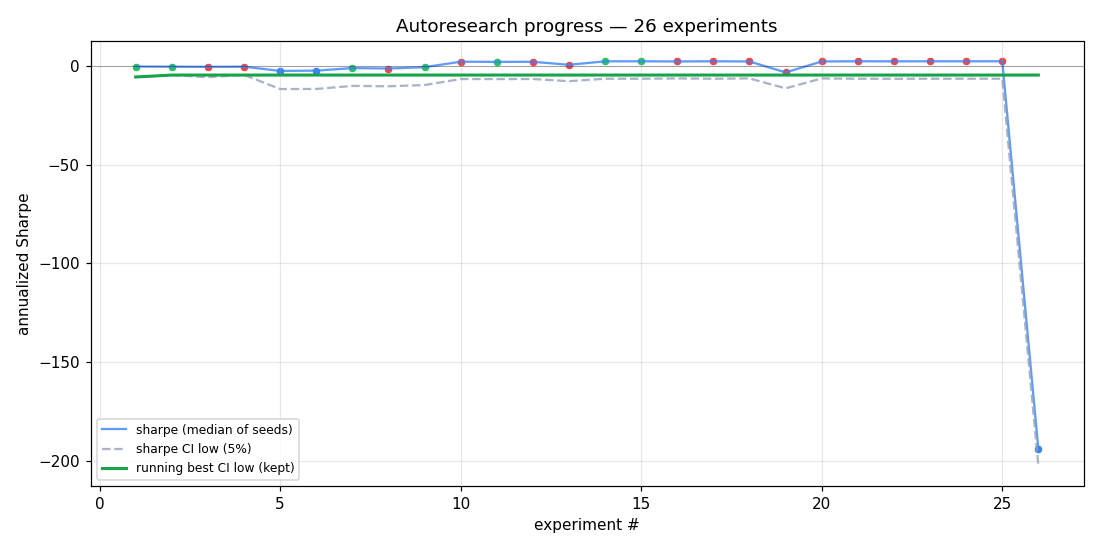
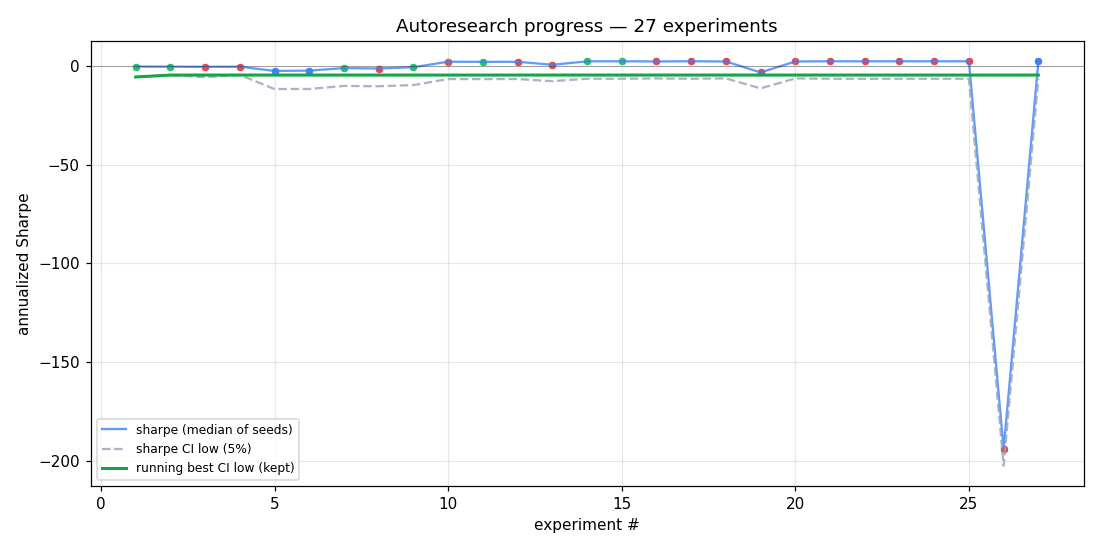
exp24: redesign picker (rank-based + fixed-hold sell) + stickiness param
- exp23 had picker take 0 trades because BUY-HOLD logit threshold (0.5)
  was unreachable with HOLD bias 1.5. Picker logic now:
  * BUY: top-1 by softmax P(BUY) at each cooldown, NO threshold (rank-only)
  * SELL: deterministic — auto-exit after PICKER_HOLD_BARS (60 = 1 hour)
  * Cap: max PICKER_MAX_CONCURRENT (5) simultaneous positions
- This makes picker behavior independent of HOLD-bias calibration.

- Adds PRIMARY_MIN_HOLD_BARS knob (default 1, no change from current).
  When >1, primary policy must hold position for ≥N bars before changing.
  Forces commitment, reduces churn. Per-strategy stickiness pattern.

- README updated with new picker description + Per-strategy stickiness section.

diff --git a/experiment.py b/experiment.py
@@ -224,6 +224,14 @@ RL_LR = 2e-5     # exp7 KEPT setting (known stable, no rogue seeds)
 RL_COEF = 1.0
 ENTROPY_COEF = 0.01
 VOL_PENALTY = 0.0   # exp20/21 showed: small penalty=invisible, large penalty=destabilizing. Off.
+
+# ============================================================================
+# STRATEGY-LEVEL "STICKINESS" — minimum time between portfolio moves.
+# Each strategy defines its own. Higher = more committed positions, less churn.
+# 1 = current behavior (can change every bar).
+# ============================================================================
+PRIMARY_MIN_HOLD_BARS = 1     # primary strategy: how many bars to hold before allowing position change
+# (Picker already has PICKER_BUY_COOLDOWN_S = 5 min between BUYs.)
 SGD_BATCH = 64
 GRAD_CLIP = 1.0
 RL_STEP_EVERY_BARS = 5
@@ -396,7 +404,10 @@ def simulate(model: PatchTransformer, features: dict[str, pd.DataFrame], device:
     fixed_cost_frac = 2.0 * FEE_PER_TRADE_USD / NOTIONAL_PER_SYMBOL_USD
 
     broker = PaperBroker()
-    sym_state: dict[str, dict] = {s: {"i": -1, "pending": [], "last_pos": 0.0} for s in features}
+    # last_change_idx tracks the bar index when this symbol's position last changed,
+    # so we can enforce PRIMARY_MIN_HOLD_BARS between consecutive position changes.
+    sym_state: dict[str, dict] = {s: {"i": -1, "pending": [], "last_pos": 0.0,
+                                       "last_change_idx": -10**9} for s in features}
 
     cols = USE_FEATURES
     feat_arrays: dict[str, np.ndarray] = {s: f[cols].to_numpy(np.float32) for s, f in features.items()}
@@ -453,7 +464,13 @@ def simulate(model: PatchTransformer, features: dict[str, pd.DataFrame], device:
             for (sym, i_now), a_idx, X_arr in zip(batch_meta, a_idx_list, batch_X):
                 st = sym_state[sym]
                 target = float(ACTION_TO_POS[a_idx])
+                # STICKINESS: if not enough bars since last position change, force HOLD
+                if (i_now - st["last_change_idx"]) < PRIMARY_MIN_HOLD_BARS:
+                    target = st["last_pos"]
+                    a_idx = 1   # HOLD
                 pos_change = abs(target - st["last_pos"])
+                if pos_change > 1e-9:
+                    st["last_change_idx"] = i_now
                 broker.update(sym, float(close_arrays[sym][i_now]), ts, target)
                 st["pending"].append({
                     "X": X_arr.copy(),
@@ -519,8 +536,8 @@ def simulate(model: PatchTransformer, features: dict[str, pd.DataFrame], device:
 
 PICKER_POSITION_USD = 1_000.0
 PICKER_BUY_COOLDOWN_S = 5 * 60     # max 1 buy per 5 minutes
-PICKER_BUY_THRESHOLD = 0.5         # action_logits[BUY] - HOLD must exceed this
-PICKER_SELL_THRESHOLD = 0.5        # action_logits[SELL] - HOLD must exceed this
+PICKER_HOLD_BARS = 60              # auto-sell after N bars (1 hour at 1-min bars)
+PICKER_MAX_CONCURRENT = 5          # max number of distinct positions held at once
 
 
 class PickerBroker:
@@ -596,9 +613,19 @@ class PickerBroker:
 def simulate_best_picker(model: PatchTransformer,
                          features: dict[str, pd.DataFrame],
                          device: str) -> PickerBroker:
-    """At each timestamp, pick the SINGLE highest-conviction BUY and execute
-    one $1k buy if cooldown permits. Sell entire position when SELL conviction
-    exceeds threshold for any held symbol.
+    """At each timestamp, RANK all ready symbols by P(BUY) (softmax of action head).
+
+    Buy logic: every PICKER_BUY_COOLDOWN_S, buy the TOP-1 ranked symbol's $1k
+    position, regardless of absolute level. Pure rank-based — works even when
+    HOLD bias makes all P(BUY) values low in absolute terms, because we only
+    care which symbol the model likes MOST relative to the others.
+
+    Sell logic: each held position auto-exits after PICKER_HOLD_BARS bars
+    (deterministic timer — no model decision needed for exits). This makes
+    the picker's behavior independent of SELL-logit calibration.
+
+    Concurrency: max PICKER_MAX_CONCURRENT positions held at once. Beyond
+    that, new buys wait for the cooldown AND a freed slot.
     """
     broker = PickerBroker()
     cols = USE_FEATURES
@@ -613,38 +640,48 @@ def simulate_best_picker(model: PatchTransformer,
 
     C = model.context_len
     last_idx_by_sym: dict[str, int] = {s: -1 for s in features}
+    # Track when each held position was bought (bar count since start of replay)
+    bought_at_bar: dict[str, int] = {}   # sym -> bar count
+    bar_count = 0
 
     for ts in sorted_ts:
+        bar_count += 1
         events_here = events_by_ts[ts]
         for sym, i_now in events_here:
             last_idx_by_sym[sym] = i_now
 
-        # Score every ready symbol with the model's action head
+        # 1) Auto-sell positions held longer than PICKER_HOLD_BARS
+        to_close = []
+        for sym, bought_bar in bought_at_bar.items():
+            if (bar_count - bought_bar) >= PICKER_HOLD_BARS and broker.positions.get(sym, 0.0) > 0:
+                to_close.append(sym)
+        for sym in to_close:
+            price = float(close_arrays[sym][last_idx_by_sym[sym]])
+            if broker.sell_all(sym, price, ts):
+                bought_at_bar.pop(sym, None)
+
+        # 2) Score every ready symbol; buy top-ranked if cooldown + slot available
         batch_X, batch_meta = [], []
         for sym, i_now in events_here:
             if i_now >= C - 1:
                 batch_X.append(feat_arrays[sym][i_now - C + 1 : i_now + 1])
                 batch_meta.append((sym, i_now))
 
-        if batch_X:
-            with torch.no_grad():
-                model.eval()
-                xb = torch.from_numpy(np.stack(batch_X)).to(device)
-                _, _, alog = model(xb)   # (B, 3): SELL=0, HOLD=1, BUY=2
-                buy_score = (alog[:, 2] - alog[:, 1]).cpu().tolist()
-                sell_score = (alog[:, 0] - alog[:, 1]).cpu().tolist()
-            model.train()
-
-            # 1) Sell first — for held positions, exit if model says SELL strongly
-            for (sym, i_now), bs, ss in zip(batch_meta, buy_score, sell_score):
-                if broker.positions.get(sym, 0.0) > 0 and ss > PICKER_SELL_THRESHOLD:
-                    broker.sell_all(sym, float(close_arrays[sym][i_now]), ts)
-
-            # 2) Buy second — pick BEST symbol, one buy per cooldown
-            best_idx = max(range(len(buy_score)), key=lambda k: buy_score[k])
-            if buy_score[best_idx] > PICKER_BUY_THRESHOLD:
+        if batch_X and broker._cooldown_ok(ts):
+            n_active = sum(1 for q in broker.positions.values() if q > 0)
+            if n_active < PICKER_MAX_CONCURRENT:
+                with torch.no_grad():
+                    model.eval()
+                    xb = torch.from_numpy(np.stack(batch_X)).to(device)
+                    _, _, alog = model(xb)   # (B, 3): SELL=0, HOLD=1, BUY=2
+                    # Rank by softmax P(BUY) — relative scoring, robust to HOLD bias
+                    p_buy = torch.softmax(alog, dim=-1)[:, 2].cpu().tolist()
+                model.train()
+                best_idx = max(range(len(p_buy)), key=lambda k: p_buy[k])
                 sym, i_now = batch_meta[best_idx]
-                broker.buy(sym, float(close_arrays[sym][i_now]), ts)
+                price = float(close_arrays[sym][i_now])
+                if broker.buy(sym, price, ts):
+                    bought_at_bar[sym] = bar_count
 
         # Mark to market every bar
         prices = {s: float(close_arrays[s][last_idx_by_sym[s]])

diff --git a/README.md b/README.md
@@ -17,12 +17,12 @@ The same trained model can be evaluated under different "trading strategies." Ea
 
 ### Strategy 2 (secondary, evaluation only): **best-stock picker** ⭐ NEW
 
-- At each bar, score every symbol by its model's `BUY` confidence (`logit[BUY] − logit[HOLD]`).
-- Buy ONLY the single highest-scoring symbol — fixed $1k each, **max 1 buy per 5 minutes** (cooldown).
-- Sells: close any held position whose `SELL` confidence exceeds threshold.
-- Position can stack (multiple buys of same symbol if it stays the best).
-- **Pros:** concentration on strongest signal, lower per-trade fee drag, mimics discretionary trading workflow.
-- **Cons:** tail-risk from concentration, unused capital while held.
+- At each bar, **rank** all 5 symbols by softmax `P(BUY)` from the model's action head.
+- Buy logic: every `PICKER_BUY_COOLDOWN_S = 5min`, buy the **top-1 ranked** symbol's $1k position. Pure rank-based — works even when HOLD bias suppresses absolute BUY logits, because we only care which symbol the model likes MOST relative to others.
+- Sell logic: each held position auto-exits after `PICKER_HOLD_BARS = 60` bars (1 hour). Deterministic timer — no model decision needed for exits, makes behavior independent of SELL-logit calibration.
+- Concurrency cap: max `PICKER_MAX_CONCURRENT = 5` distinct positions held at once.
+- **Pros:** concentration on strongest signal, lower per-trade fee drag, robust to HOLD bias, mimics a discretionary trader's workflow.
+- **Cons:** tail-risk from concentration; unused capital while between buys.
 - **Currently used for evaluation only.** Each experiment now produces a SECOND chart (`docs/picker_latest.png`) showing what would happen if we used the model's outputs this way.
 
 ### Strategy 3 (planned): top-K picker
@@ -51,6 +51,17 @@ Multi-window walk-forward: train on weeks 1–2, eval on week 3; train on weeks 
 
 **Why this matters for RL:** each strategy provides a different reward shape. A model that's only "okay" under strategy 1 might be excellent under strategy 2 (e.g., it correctly identifies the single best opportunity even if its average prediction is mediocre). Future RL iterations can use a **combined** reward across strategies — encouraging the model to be useful in multiple trading contexts. This is the "sweet stack" of training signals.
 
+### Per-strategy "stickiness" parameters
+
+Every strategy can specify a minimum time between portfolio moves to discourage over-trading and force commitment:
+
+| Strategy | Knob | Default | What it does |
+|---|---|---|---|
+| Primary | `PRIMARY_MIN_HOLD_BARS` | `1` (no holding required) | After a position change, must hold ≥N bars before next change |
+| Picker | `PICKER_BUY_COOLDOWN_S` | `300` (5 min) | Minimum seconds between consecutive buys |
+
+These act as inductive priors: when a real edge exists, holding for longer is usually fine and saves fees. When there's no edge, stickiness prevents the model from churning through fees on noise. Each strategy can tune its own.
+
 ## Reading the charts
 
 Two PNGs auto-regenerate on every experiment run:
@@ -78,23 +89,38 @@ A **broken** result: lines fan out wildly, some up some down, dense forest of ve
 
 <!-- RESULTS_START -->
 
-_Last updated: 2026-04-30 09:55 UTC_  
-_Total experiments: **26**  ·  kept: **7**  ·  latest commit: `c7095f1`_
+_Last updated: 2026-04-30 10:07 UTC_  
+_Total experiments: **27**  ·  kept: **7**  ·  latest commit: `323240d`_
 
-### Latest experiment
+### Latest experiment — primary strategy (full portfolio)
 
 ![equity curve](docs/equity_latest.png)
 
+### Latest experiment — best-stock picker (secondary strategy)
+
+![picker equity](docs/picker_latest.png)
+
+### Strategy comparison @ this checkpoint
+
+| Strategy | Sharpe | Net PnL | PnL % | Max DD % | Trades | Fees |
+|---|---:|---:|---:|---:|---:|---:|
+| Primary (full portfolio every-bar) | **+2.348** 🏆 | **$+75.39** 🏆 | +0.151% | -0.30% | 13 | $13.00 |
+| Picker (best-stock, $1k cooldown 5min) | +0.000 | $+0.00 | +0.000% | **+0.00%** 🏆 | 0 | **$0.00** 🏆 |
+
+**Best by Sharpe:** Primary (full portfolio every-bar)
+
+### Detailed metrics — primary strategy
+
 | metric | value |
 |---|---|
-| Sharpe (median over seeds) | **-194.085** |
-| Sharpe — bootstrap CI low (5%) | **-202.433** |
-| Sharpe — bootstrap CI high (95%) | -186.019 |
-| Max drawdown | -7.60% |
-| Net PnL | $-3,078.15 (-6.156%) |
-| Trades | 2558 |
-| Fees / slippage | $2558.00 / $511.60 |
-| Wall time | 299.9s |
+| Sharpe (median over seeds) | **+2.348** |
+| Sharpe — bootstrap CI low (5%) | **-6.483** |
+| Sharpe — bootstrap CI high (95%) | +10.170 |
+| Max drawdown | -0.30% |
+| Net PnL | $+75.39 (+0.151%) |
+| Trades | 13 |
+| Fees / slippage | $13.00 / $2.61 |
+| Wall time | 388.1s |
 | Seeds completed | 10 |
 
 ### Progress over all experiments
